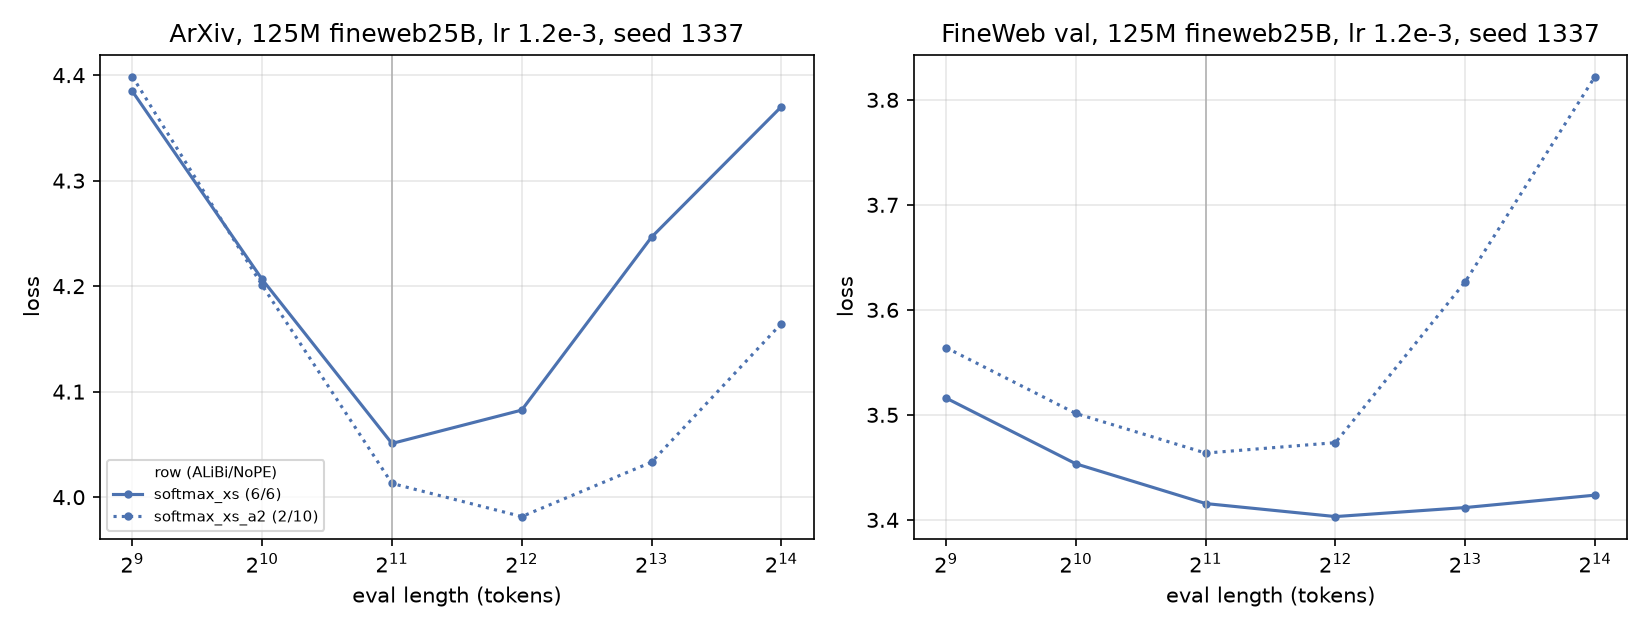
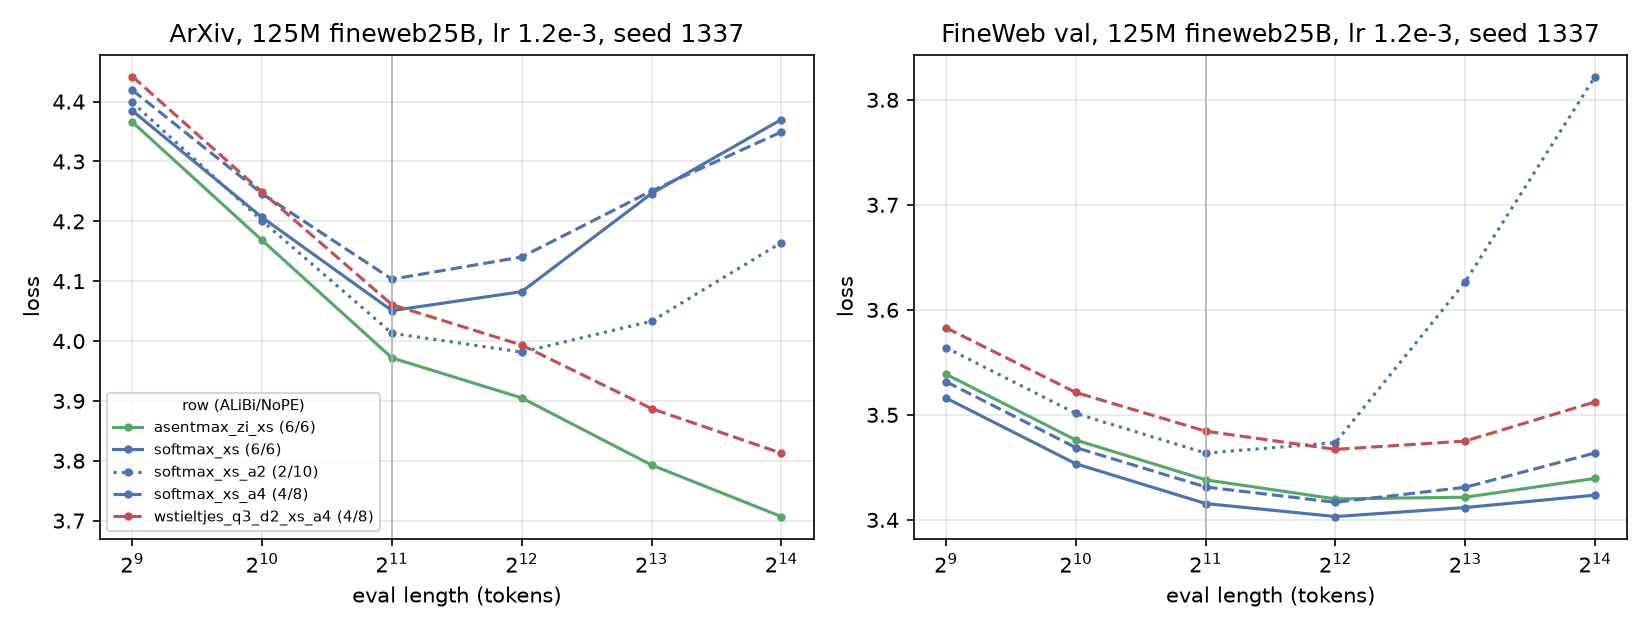
pe-ssmax-headsplit: softmax_xs_a4 + wstieltjes_q3_d2_xs_a4 done; ssmax_xs OOM-on-resume retried (8488707/8 at 9c4bcad); archived 8453515/6, 8471995/6, smoke 8488648

diff --git a/research/directions/pe-ssmax-headsplit.md b/research/directions/pe-ssmax-headsplit.md
@@ -7,32 +7,35 @@ cluster: ascend
 status: active
 wake: on_jobs
 budget_gpu_hours: 150
-spent_gpu_hours: 32.9
+spent_gpu_hours: 80.18
 max_jobs_in_flight: 24
 jobs:
-- 8453515
-- 8453516
 - 8453517
 - 8453518
 - 8453899
-- 8471995
-- 8471996
 - 8471997
 - 8471998
 - 8471999
+- 8488707
+- 8488708
 jobs_archived:
 - 8368600
 - 8453490
 - 8453513
 - 8453514
 - 8471861
-last_wake: '2026-11-10T02:00:01-05:00'
+- 8453515
+- 8453516
+- 8471995
+- 8471996
+- 8488648
+last_wake: '2026-11-10T13:25:27-05:00'
 next_id: 5
 model: null
 effort: null
 max_turns: 100
 timeout_minutes: 60
-wakes: 4
+wakes: 5
 ---
 # Is the sparse maps' long-context gain sparsity or position-dependent temperature, and does it live on the NoPE heads?
 
@@ -100,3 +103,4 @@ construction. More NoPE heads give the map more rows where it can differ from so
 - 2026-11-09 22:25  8453513 segment 1 ended: tasks 2/3 (softmax_xs_a2, wstieltjes_q3_d2_xs_a4) hit the wall limit as planned (exit 4, 3.84 h each), checkpointed at iter 2148 / 1001 and resumed in 8453514; tasks 0/1/4 (a0339 failures) restarted from scratch in 8453514 on good nodes, all 5 training at probe speed (82k / 38k tok/s); 8453513 archived (~7.7 GPU-h) | nothing submitted, chain 8453514-8453518 + 8453899 covers all runs | next: score e002/e003 when the chain ends.
 - 2026-11-10 02:05  8453514 segment 2 closed: all 5 tasks exit 4:0 at 3.84-3.87 h (planned wall-limit checkpoint), resumed in 8453515; iters ssmax_xs 2170, softmax_xs_a4 2154, softmax_xs_a2 4390, wstieltjes a4 2030, a2 1020; no NaN, probe-speed throughput; 8453514 archived (19.25 GPU-h, spent 28.99 = 9.74 + sacct sum) | nothing submitted; existing chain 8453515-8453518 + 8453899 covers every run (Stieltjes a2 needs the spare) | next: score e002/e003 as runs finish (softmax_xs_a2 first, in 8453515).
 - 2026-11-10 03:15  8453515_2 done: softmax_xs_a2 (2/10) finished, 0.94 h; vs 6/6 softmax_xs: val@2048 +0.042, FW 16k +0.398, ArXiv 2k -0.038, ArXiv 16k -0.206 (4.164 vs 4.370), PG-19 16k +0.007 -> more NoPE heads help ArXiv extrapolation but break FineWeb 16k; e003 interim: 'softmax worsens with NoPE' miss, 'val cost <= 0.01' miss for softmax, e004 gate hit | figure figures/arxiv_vs_length.png + plot_arxiv.py; results copied to results/lm1012/125m_fw25/ | e004 (asentmax_zi_xs_a4/a2) smoke 8471861 ok (debug-nextgen), chain 8471995-8471999 submitted at 03e9f85, ~28 GPU-h; committed total ~93 of 150 | next: score e002/e003 as the 8453515-8453518/8453899 chain finishes; e005 (a0) gated on a4 monotonicity.
+- 2026-11-10 13:35  finished: softmax_xs_a4 (8.80 GPU-h) and wstieltjes_q3_d2_xs_a4 (18.78 GPU-h); softmax ArXiv 16k 6/6 -> 4/8 -> 2/10 = 4.370 -> 4.349 -> 4.164 (monotone better), FW 16k 3.424 -> 3.464 -> 3.822 (monotone worse); wstieltjes a4 ArXiv 16k 3.813 (0.536 below softmax a4, 0.106 above 6/6 ASEntmax 3.707), val@2048 3.479 | ssmax_xs segment 4 (8453516_0) OOM on resume at an eval boundary (iter 4250, fragmentation), no segment left: retry with expandable_segments (+ mb8 fallback segment), smoke 8488648 ok, submitted 8488707/8488708 at 9c4bcad (~1.3 GPU-h) | e004 segments 1-2 closed (asentmax a4/a2 at iter ~3650), running in 8471997 | archived 8453515, 8453516, 8471995, 8471996, 8488648 | next: score e002 when the retry ends; e003 needs wstieltjes a2 (8453518/8453899) and the lm350m-qdf 6/6 Stieltjes cell; e005 (a0) decision after e003 closes.

diff --git a/research/experiments/pe-ssmax-headsplit/e002.md b/research/experiments/pe-ssmax-headsplit/e002.md
@@ -7,7 +7,7 @@ status: submitted
 created: 2026-11-09T18:30:00
 sha: 2a32fea9f39ef863410048d591775d17199e6bbd
 cluster: ascend
-jobs: [8453513, 8453514, 8453515, 8453516, 8453517, 8453518]
+jobs: [8453513, 8453514, 8453515, 8453516, 8453517, 8453518, 8488648, 8488707, 8488708]
 config: {size: 125m, config: lm_stieltjes_125m.py, data: "fineweb25B (2.5B tok, 1.0 epoch)", T: 2048, rows: [ssmax_xs], lr: 1.2e-3, min_lr: 1.2e-4, seed: 1337, steps: 4770, micro_batch: "16 x 16", split: "6 ALiBi / 6 NoPE", partition: nextgen, segments: "4 x 4:15, WALL_LIMIT_S 13800", results: "$LM_RESULTS/125m_fw25/ssmax_xs/lr1.2e-3", evals: [lengths, lengths_16k, arxiv, pg19]}
 metrics: {}
 gpu_hours: null
@@ -58,6 +58,18 @@ Planned cost e002 + e003 ~65 GPU-h of 149.4 remaining.
 2026-11-09 22:25 wake: segment 1 (8453513) closed. Tasks 2 (softmax_xs_a2) and 3 (wstieltjes_q3_d2_xs_a4) exit 4:0 at 3.84 h = planned WALL_LIMIT_S checkpoint (iter 2148 and 1001 of 4770), resumed in 8453514 (iter 2310 / 1070 at 22:20). Tasks 0, 1, 4 restarted from iter 0 in 8453514 on a0137/a0155/a0243 (no a0339 failure repeat), at 82.0k / 82.2k / 38.1k tok/s. Segment-1 cost ~7.7 GPU-h. Projected ends: softmax-speed rows ~2.2 segments, Stieltjes ~4.8 segments + evals, inside the chain.
 
 2026-11-10 02:05 wake: segment 2 (8453514) closed, all tasks exit 4:0 at 3.84-3.87 h = planned WALL_LIMIT_S checkpoint (sacct shows FAILED for exit 4; expected), resumed in 8453515 at 01:55. ssmax_xs at iter 2170 (val@iter2000 3.676, 80.9k tok/s, no NaN). Projected: ~4.6 h of training left, ends in segment 4 (8453516) + evals. Segment-2 cost for the chain 19.25 GPU-h (5 tasks).
+
+2026-11-10 13:30 wake: segment 3 (8453515_0) exit 4:0 at 3.85 h, planned checkpoint at iter 4250 (val 3.398 @4250, 81.0k tok/s,
+no NaN). **Segment 4 (8453516_0) FAILED 1:0 after 1:56** on a0130: resume at iter 4250 (exactly an eval boundary) -> compile + the
+periodic eval at micro-batch 16 -> `torch.OutOfMemoryError` in the first `backward` (tried 6.14 GiB, 34.1 GiB in use, 7.33 GiB
+reserved-unallocated: allocator fragmentation). ckpt.pt (iter 4250) intact. Cause: OOM from fragmentation on an eval-boundary resume,
+not code or node; earlier resumes landed off eval boundaries. Segments 5-6 of the chain (8453517/8) only cover tasks 3-4, so the run
+had no segment left. Decision: retry with a fix (first failure of this cause). New `osc/submit_hs_resume_ssmax.sh` (9c4bcad):
+`PYTORCH_CUDA_ALLOC_CONF=expandable_segments:True`; segment A same micro-batch 16 x 16; segment B (afterany, no-op if A finishes)
+falls back to micro-batch 8 x 32 (same 524,288 tok/step). Tier-2 smoke 8488648 (debug-nextgen, 1:56, COMPLETED 0:0): copy of the
+iter-4250 ckpt resumed through the failing path (compile, eval at 4250, two backward steps, final eval), train exit 0.
+Submitted at 9c4bcad: 8488707 (nextgen, 2:00, WALL_LIMIT_S 6600), 8488708 (afterany spare). Remaining 520 steps x 6.47 s = 0.94 h
++ ~0.3 h evals. GPU-h so far 7.76 (segment 1 0.003, 2 3.87, 3 3.85, 4 0.03, smoke 0.03).
 
 ## Interpretation
 

diff --git a/research/experiments/pe-ssmax-headsplit/e003.md b/research/experiments/pe-ssmax-headsplit/e003.md
@@ -66,6 +66,29 @@ Figure `figures/arxiv_vs_length.png`. Interim claim scores (final scoring when a
 that still fails it; "val@2048 cost of 2/10 <= 0.01" (50 %): softmax pays +0.042, miss for that row;
 "|delta ArXiv 16k| >= 0.03" (70 %): hit (-0.206), so the e004 gate is met. Other tasks (0, 1, 3, 4) still training in 8453515.
 
+2026-11-10 13:30 wake: **softmax_xs_a4 finished** (task 1, 8453516_1 COMPLETED 0:0, 1.04 h; total 8.80 GPU-h) and
+**wstieltjes_q3_d2_xs_a4 finished** (task 3, 8453517_3 COMPLETED 0:0, 3.40 h; total 18.78 GPU-h, 5 segments). Both TRAIN_DONE at
+iter 4771, no NaN in any metrics.jsonl. Remaining: wstieltjes_q3_d2_xs_a2 (task 4, iter 3960 of 4770 at 13:20 in 8453517_4,
+~3.1 h + evals left -> 8453518 / spare 8453899) and the 6/6 Stieltjes reference wstieltjes_q3_d2_xs (lm350m-qdf e004, iter 3980).
+Results copied to `results/lm1012/125m_fw25/<row>/lr1.2e-3/` (also asentmax_zi_xs, the finished 6/6 ASEntmax reference).
+All lr 1.2e-3, seed 1337, fineweb25B 1 epoch:
+| row (ALiBi/NoPE) | val@2048 (final) | FW 2k | FW 16k | ArXiv 2k | ArXiv 4k | ArXiv 8k | ArXiv 16k | PG-19 2k | PG-19 16k |
+|---|---|---|---|---|---|---|---|---|---|
+| softmax_xs (6/6) | 3.4306 | 3.416 | 3.424 | 4.051 | 4.083 | 4.246 | 4.370 | 3.755 | 3.858 |
+| softmax_xs_a4 (4/8) | 3.4344 | 3.431 | 3.464 | 4.103 | 4.140 | 4.251 | 4.349 | 3.758 | 3.806 |
+| softmax_xs_a2 (2/10) | 3.4728 | 3.464 | 3.822 | 4.013 | 3.982 | 4.033 | 4.164 | 3.785 | 3.865 |
+| asentmax_zi_xs (6/6, ref) | 3.4480 | 3.438 | 3.440 | 3.972 | 3.905 | 3.793 | 3.707 | 3.785 | 3.749 |
+| wstieltjes_q3_d2_xs_a4 (4/8) | 3.4790 | 3.484 | 3.512 | 4.061 | 3.993 | 3.887 | 3.813 | 3.832 | 3.804 |
+| wstieltjes_q3_d2_xs (6/6) | running | | | | | | | | |
+| wstieltjes_q3_d2_xs_a2 (2/10) | running | | | | | | | | |
+Softmax across splits: ArXiv 16k 4.370 -> 4.349 -> 4.164 (6/6 -> 4/8 -> 2/10; the 4/8 step, -0.021, is inside the +-0.05 bounce),
+FineWeb 16k 3.424 -> 3.464 -> 3.822, val@2048 3.431 -> 3.434 -> 3.473. Monotone in both directions, with most of the change between
+4/8 and 2/10. Windowed Stieltjes at 4/8 beats softmax 4/8 at ArXiv 16k by 0.536 and costs +0.045 at val@2048; it sits 0.106 above the
+6/6 ASEntmax at ArXiv 16k. Claim scores so far: "softmax ArXiv 16k worsens with more NoPE heads" (60 %): **miss, final** (it improves
+monotonically); "|delta ArXiv 16k| >= 0.03 between splits" (70 %): hit (softmax 6/6 vs 2/10, -0.206); "val@2048 cost of 2/10 <= 0.01
+for both rows" (50 %): miss, final (softmax +0.042); "gap widens monotonically" (50 %): pending the two Stieltjes cells;
+"all four finish without divergence" (85 %): 3/4 so far; cost (54-62 GPU-h): pending. Figure `figures/arxiv_vs_length.png` updated.
+
 ## Interpretation
 
 ## Next

diff --git a/research/experiments/pe-ssmax-headsplit/e004.md b/research/experiments/pe-ssmax-headsplit/e004.md
@@ -48,6 +48,12 @@ Submitted 2026-11-10 ~03:12 from the ascend checkout at 03e9f85 (`bash osc/submi
 Manifest `$LM_RESULTS/125m_fw25/manifest_hs_e004.txt` (0 asentmax_zi_xs_a4, 1 asentmax_zi_xs_a2), ids in `jobs_hs_e004.txt`.
 Planned cost ~28 GPU-h.
 
+2026-11-10 13:30 wake: segments 1 and 2 (8471995, 8471996) closed, both tasks exit 4:0 at 3.84-3.85 h = planned WALL_LIMIT_S
+checkpoint (sacct FAILED for exit 4; expected); 15.39 GPU-h for the two segments. Resumed in 8471997 (running since ~10:52):
+asentmax_zi_xs_a4 iter 3650 (val 3.551 @3500), asentmax_zi_xs_a2 iter 3610 (val 3.480 @3500), 52.0k / 51.6k tok/s, no NaN.
+~1150 steps x 10.1 s = 3.2 h + evals left -> finishes in 8471998 (segment 4). 6/6 reference asentmax_zi_xs finished: val@2048 3.4480,
+ArXiv 2k 3.972, ArXiv 16k 3.707, FW 16k 3.440, PG-19 16k 3.749.
+
 ## Interpretation
 
 ## Next
